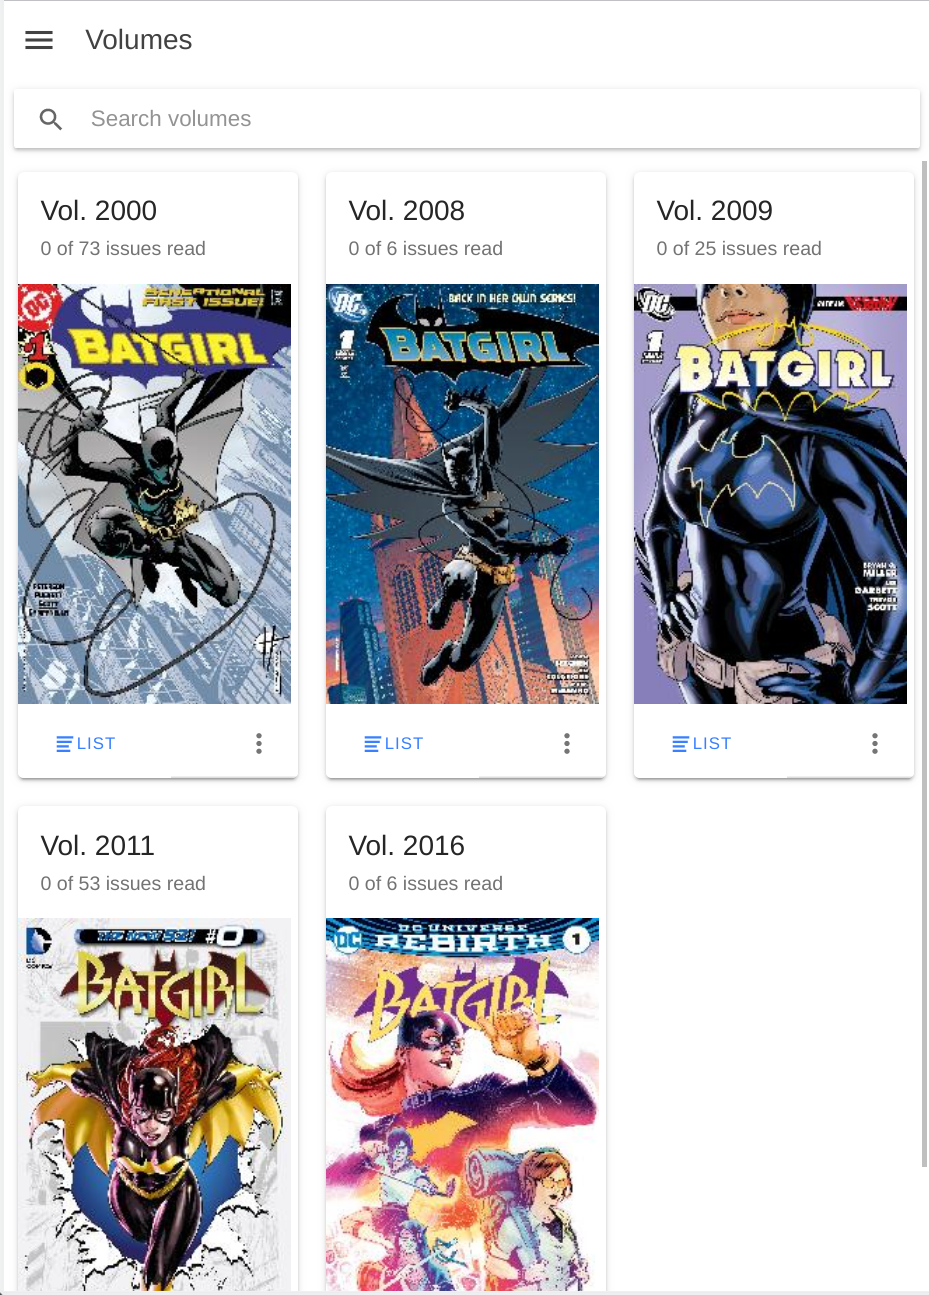
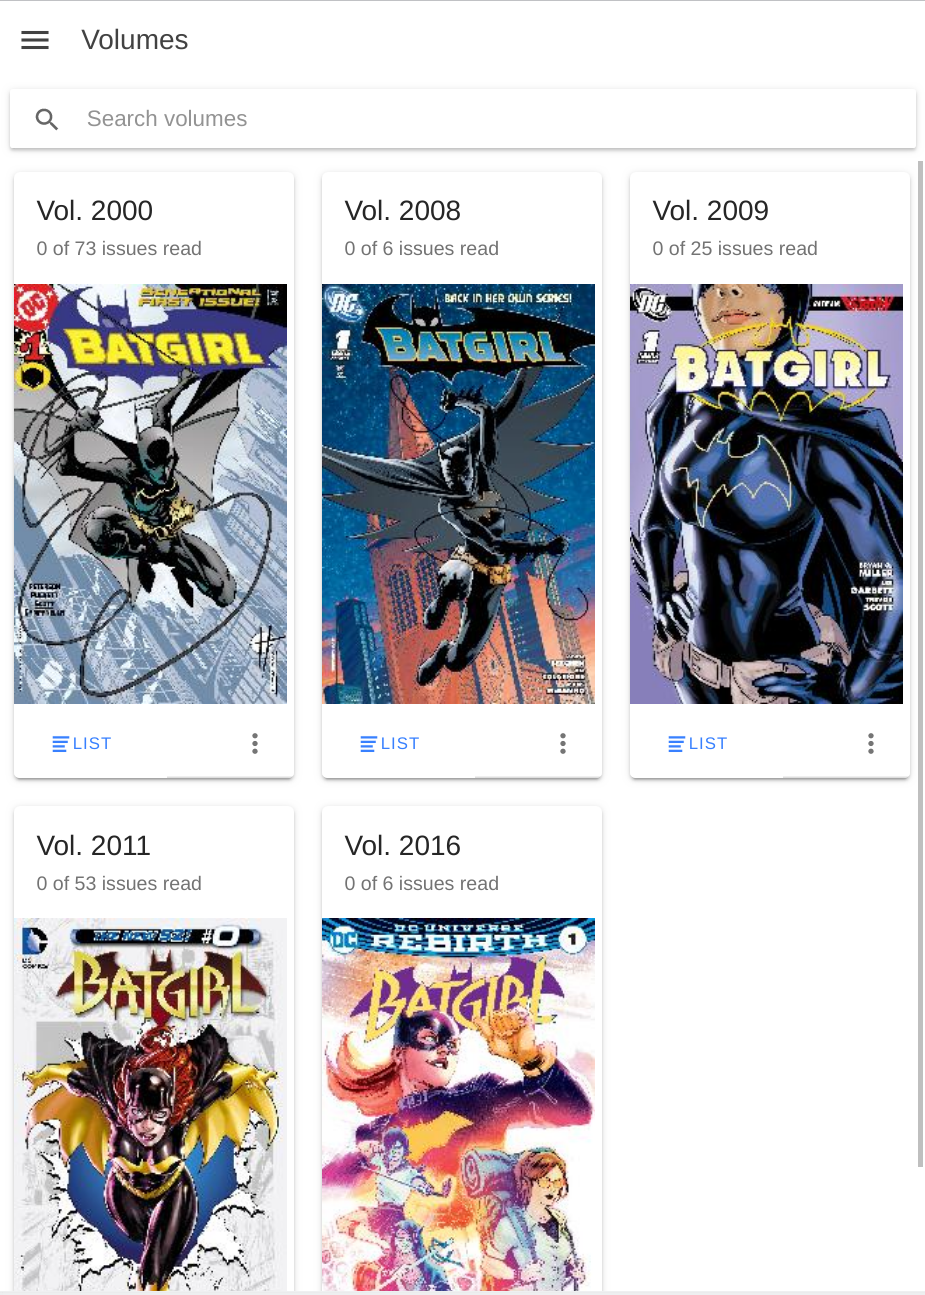
Clean up screenshots.

diff --git a/README.md b/README.md
@@ -151,6 +151,14 @@ node --inspect-brk node_modules/protractor/bin/protractor e2e/protractor.conf.js
 
 ## Enjoy
 
-![Screenhot 1](docs/screenshots/alfred1.png?raw=true)
-![Screenhot 2](docs/screenshots/alfred2.png?raw=true)
-![Screenhot 3](docs/screenshots/alfred3.png?raw=true)
+### Library view
+
+![Library](docs/screenshots/alfred1.png?raw=true){: style="max-width:500px"}
+
+### Settings and menu
+
+![Settings and menu](docs/screenshots/alfred2.png?raw=true){: style="max-width:500px"}
+
+### Volume view
+
+![Volume](docs/screenshots/alfred3.png?raw=true){: style="max-width:500px"}
